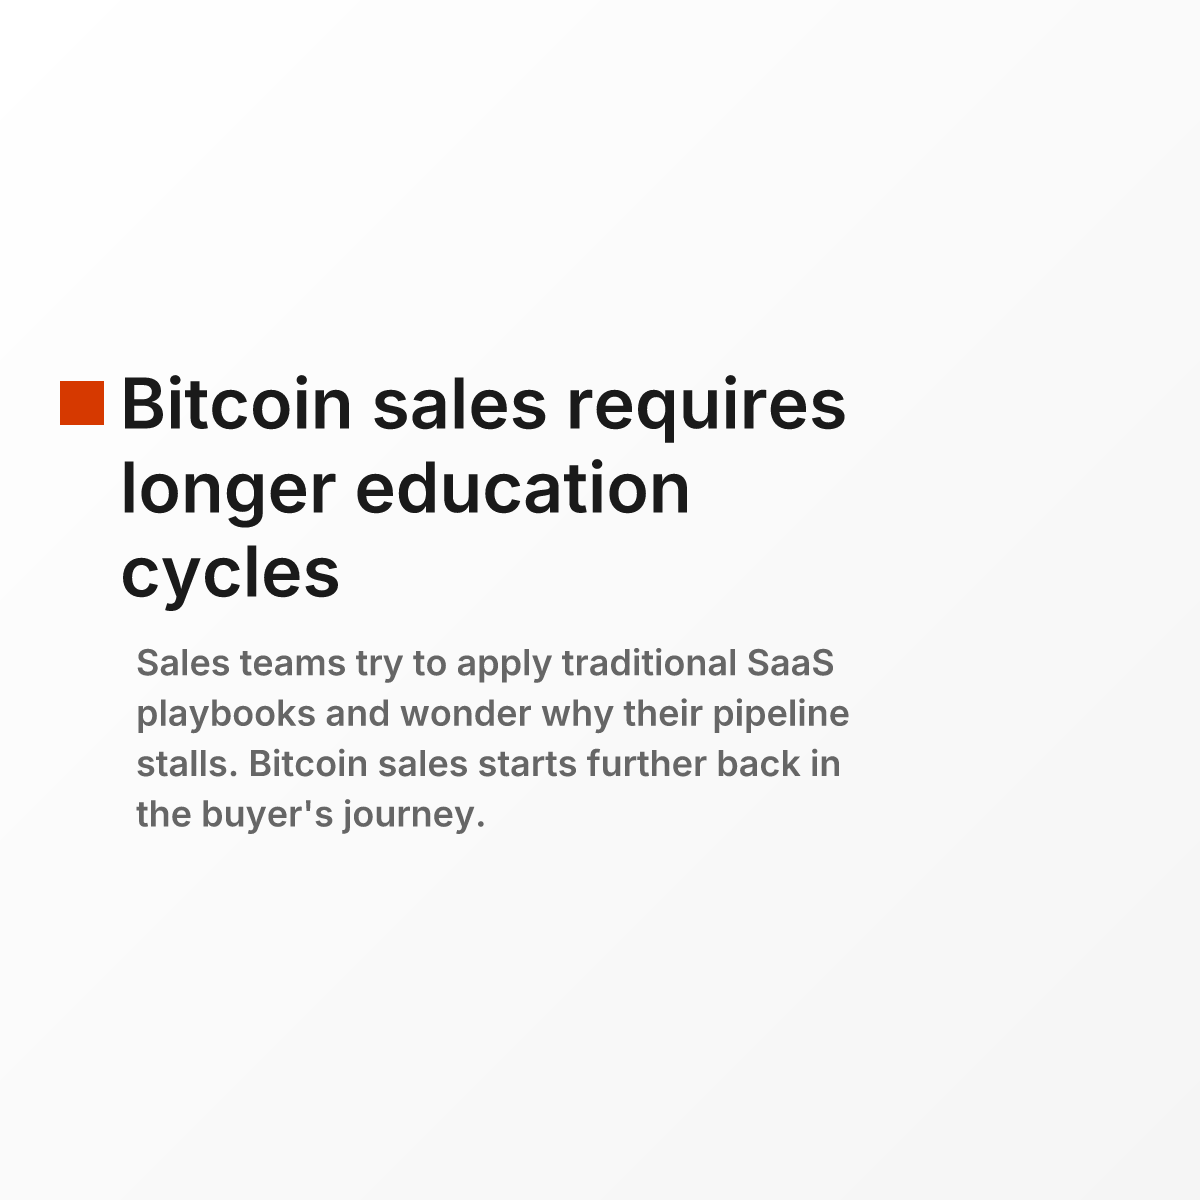
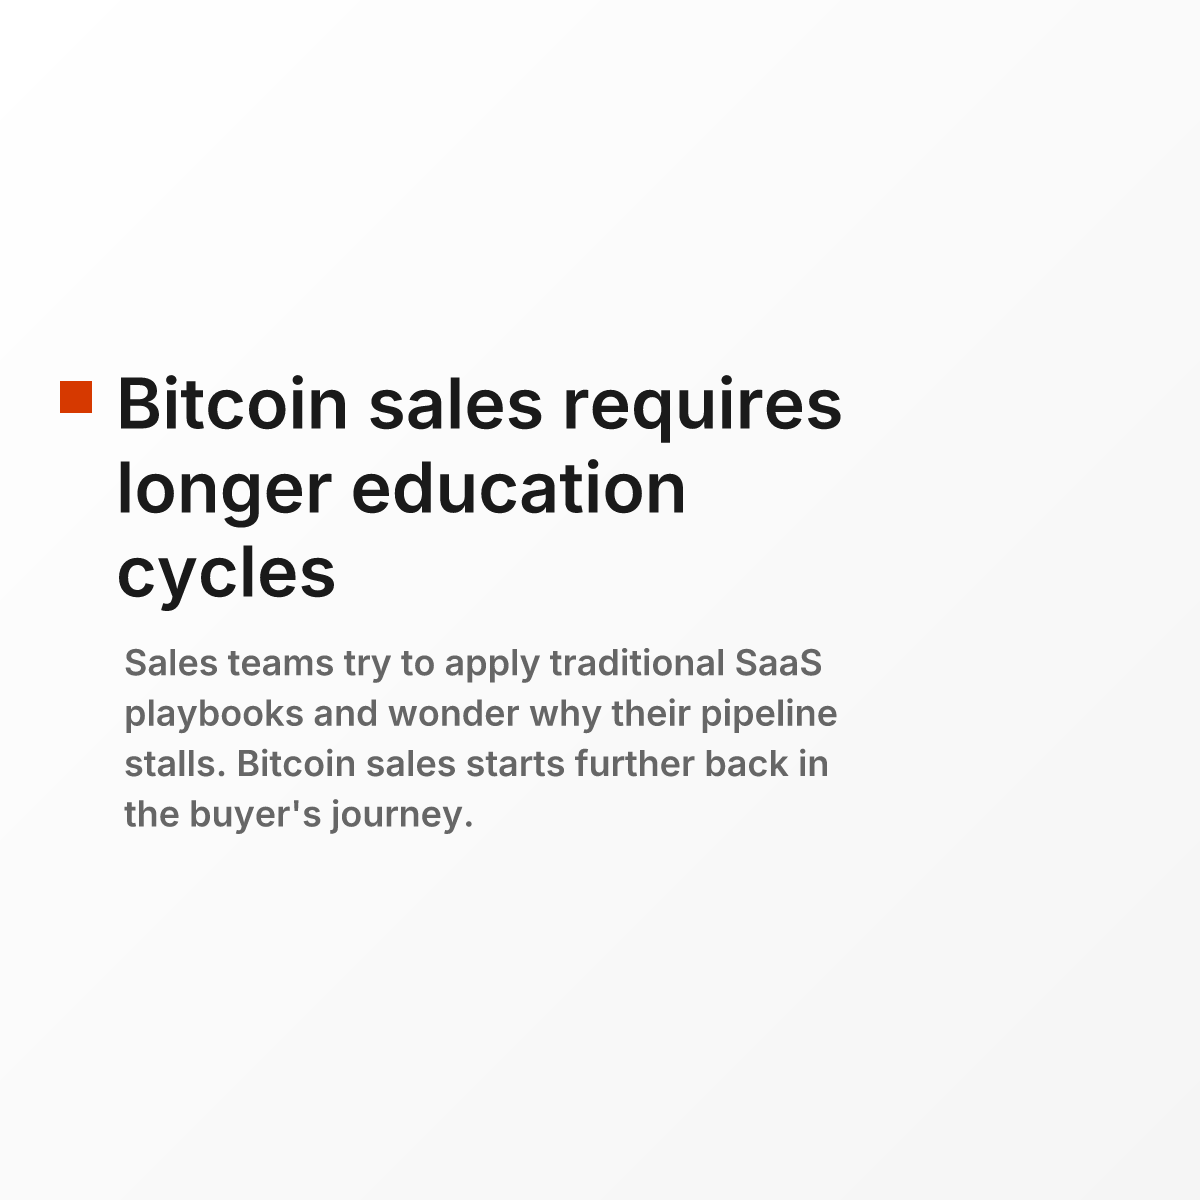
fix: adjust orange square sizing for better visual balance
Reduced orange square size and increased spacing in both formats
to create better visual hierarchy and breathing room:

Landscape (1200×630):
- Square: 40px → 36px
- Gap: 12px → 16px
- Description padding: 64px → 60px

Square (1200×1200):
- Square: 44px → 32px
- Gap: 16px → 24px
- Description padding: 76px → 64px

Regenerated all 8 OG images (4 notes × 2 formats).

🤖 Generated with [Claude Code](https://claude.com/claude-code)

Changed region(s): [[0.0308, 0.3083, 0.7092, 0.7092]]

diff --git a/scripts/generate-og-images.js b/scripts/generate-og-images.js
@@ -97,13 +97,13 @@ async function main() {
             <div style="
               display: flex;
               align-items: flex-start;
-              gap: 12px;
+              gap: 16px;
               margin-bottom: 16px;
             ">
               <div style="
                 display: flex;
-                width: 40px;
-                height: 40px;
+                width: 36px;
+                height: 36px;
                 background: ${COLORS.accent};
                 margin-top: 16px;
                 flex-shrink: 0;
@@ -123,7 +123,7 @@ async function main() {
               line-height: 1.4;
               margin: 0;
               max-width: 1000px;
-              padding-left: 64px;
+              padding-left: 60px;
             ">${description}</p>
           </div>
         </div>
@@ -153,13 +153,13 @@ async function main() {
             <div style="
               display: flex;
               align-items: flex-start;
-              gap: 16px;
+              gap: 24px;
               margin-bottom: 24px;
             ">
               <div style="
                 display: flex;
-                width: 44px;
-                height: 44px;
+                width: 32px;
+                height: 32px;
                 background: ${COLORS.accent};
                 margin-top: 20px;
                 flex-shrink: 0;
@@ -179,7 +179,7 @@ async function main() {
               line-height: 1.4;
               margin: 0;
               max-width: 800px;
-              padding-left: 76px;
+              padding-left: 64px;
             ">${description}</p>
           </div>
         </div>
